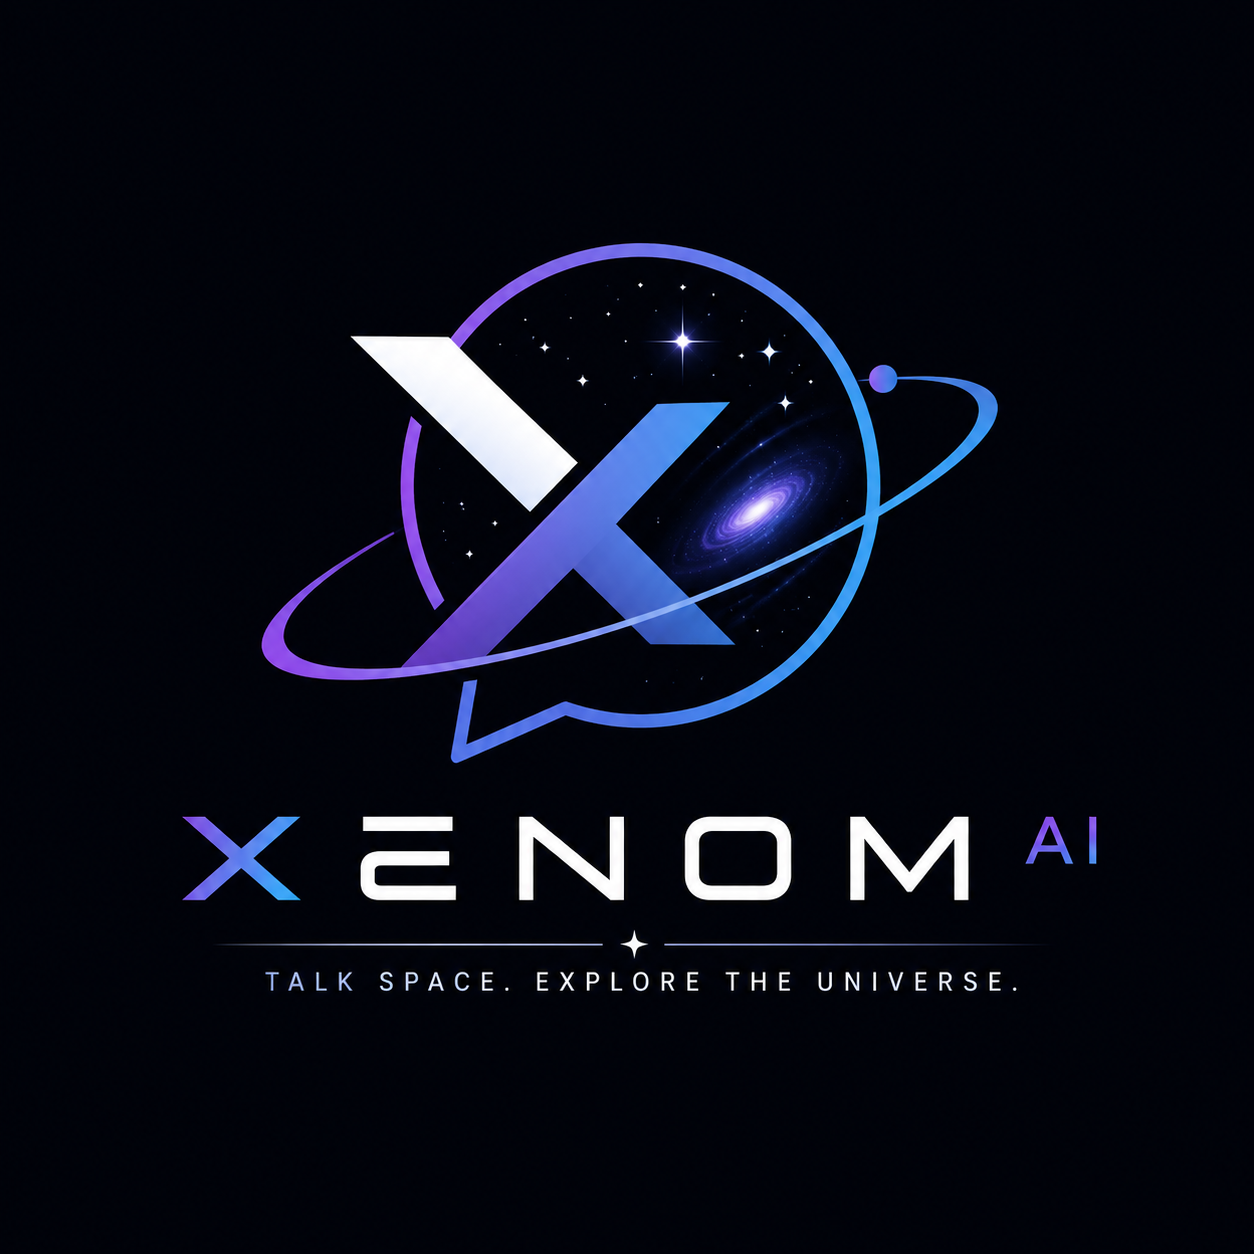
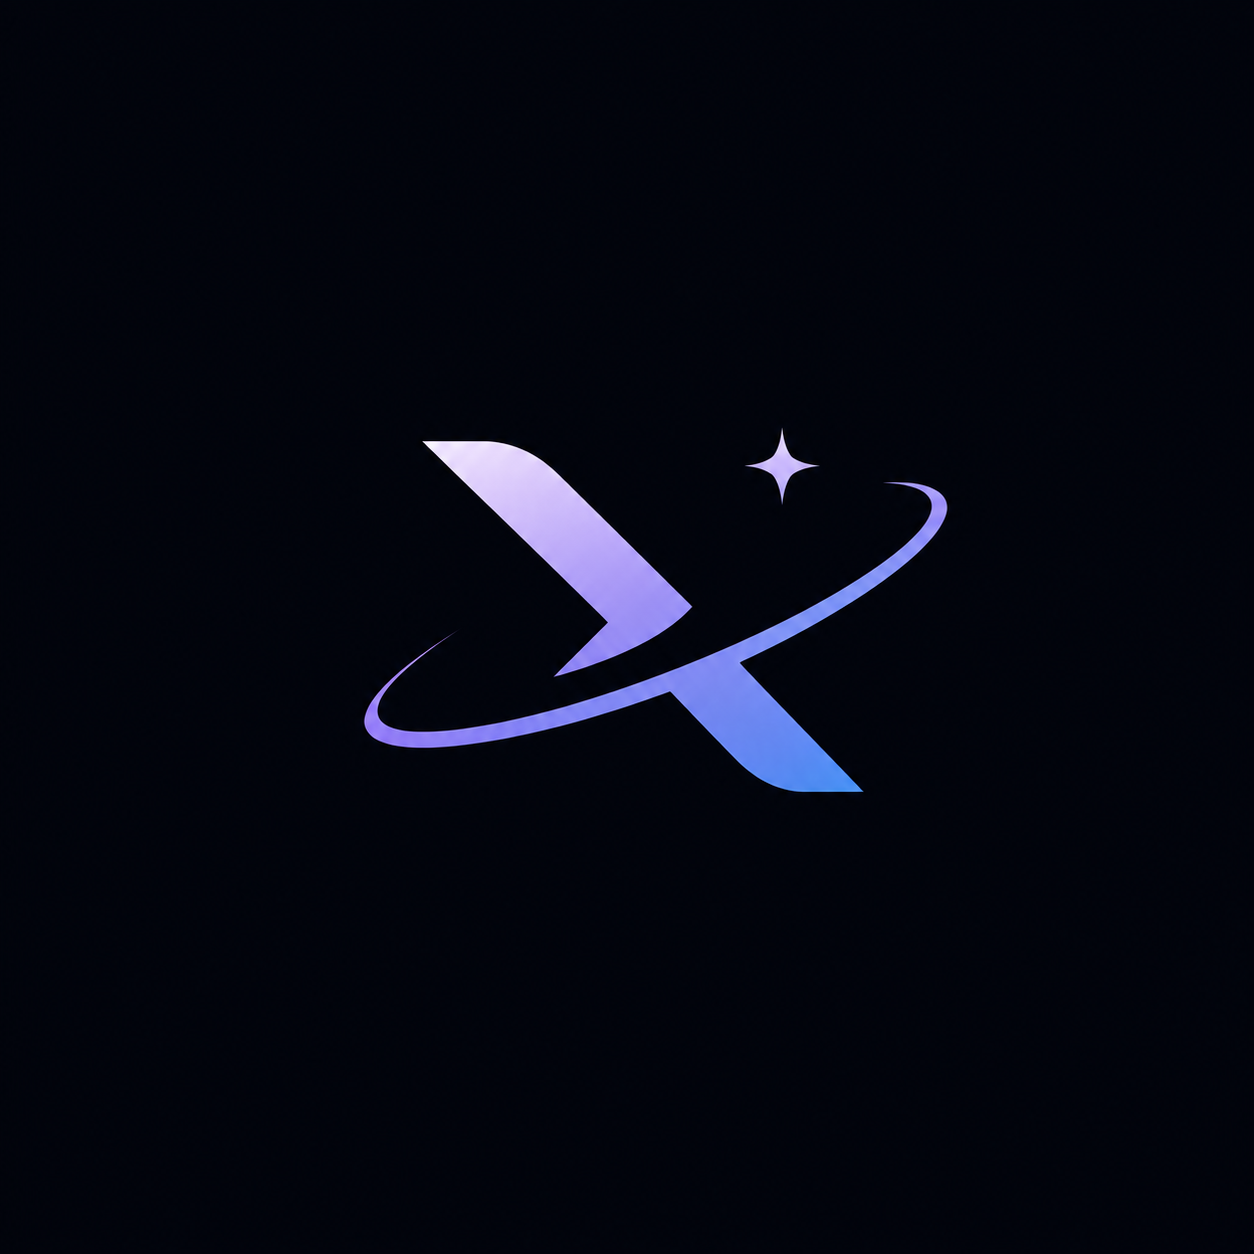
update constants and screenshots

diff --git a/src/constants/index.ts b/src/constants/index.ts
@@ -192,7 +192,7 @@ export const projects: ProjectType[] = [
     screenshot: SS_x,
     image: x,
     githubLink: "https://github.com/Abdoubel26/twitter-clone",
-    previewLink: null
+    previewLink: "https://twitter-clone-1-k2hq.onrender.com"
   },
   {
     id: 5,
@@ -216,25 +216,8 @@ export const projects: ProjectType[] = [
     githubLink: "https://github.com/Abdoubel26/financial-manager",
     previewLink: "https://finances-trackr.vercel.app/"
   },
-  {
+   {
     id: 6,
-    title: "Mindful-Scroll",
-    description: "A productivity-focused Chrome extension that monitors social media usage and enforces customizable daily time limits.",
-    longDescription: "Mindful Scroll is a productivity-focused Chrome extension that helps users develop healthier digital habits by monitoring time spent on distracting websites. The extension allows users to define daily limits and automatically restrict access once those limits are reached, encouraging more intentional internet usage and improved focus.",
-    techStack: [
-      "JavaScript"
-    ],
-    features: [
-      "Timer",
-      "Website Blocking"
-    ],
-    screenshot: null,
-    image: MS,
-    githubLink: "https://github.com/Abdoubel26/mindful-scroll",
-    previewLink: null
-  },
-  {
-    id: 7,
     title: "Xenom AI",
     description: "An AI-powered chatbot for astronomy and space exploration, delivering fast and insightful answers through the Groq API.",
     longDescription: "Xenom AI is a specialized conversational assistant designed for astronomy, astrophysics, and space exploration enthusiasts. Powered by the Groq API, it provides fast, accurate, and engaging responses to questions about planets, stars, galaxies, black holes, and space missions. The project combines modern UI design with intelligent, real-time interaction to make complex cosmic topics more accessible and enjoyable for curious users.",
@@ -255,10 +238,27 @@ export const projects: ProjectType[] = [
     previewLink: "https://xenom-ai.vercel.app/"
   },
   {
+    id: 7,
+    title: "Mindful-Scroll",
+    description: "A productivity-focused Chrome extension that monitors social media usage and enforces customizable daily time limits.",
+    longDescription: "Mindful Scroll is a productivity-focused Chrome extension that helps users develop healthier digital habits by monitoring time spent on distracting websites. The extension allows users to define daily limits and automatically restrict access once those limits are reached, encouraging more intentional internet usage and improved focus.",
+    techStack: [
+      "JavaScript"
+    ],
+    features: [
+      "Timer",
+      "Website Blocking"
+    ],
+    screenshot: null,
+    image: MS,
+    githubLink: "https://github.com/Abdoubel26/mindful-scroll",
+    previewLink: null
+  },
+  {
     id: 8,
     title: "QuickChat",
-    description: "A high-performance, real-time chat application built with secure user authentication and persistent WebSocket connections.",
-    longDescription: "QuickChat is a real-time messaging application focused on speed, reliability, and user experience. The platform enables authenticated users to communicate instantly through persistent WebSocket connections while maintaining secure account management. The project demonstrates the implementation of real-time communication systems and scalable chat architecture.",
+    description: "A first full-stack chat app that taught me the foundations of real-time web development.",
+    longDescription: "QuickChat is a real-time messaging application focused on speed, reliability, and user experience. The platform enables authenticated users to communicate instantly through persistent WebSocket connections while maintaining secure account management. The project demonstrates the implementation of real-time communication systems and scalable chat architecture. This was my very first MERN stack application. While the UI is simple, building this taught me the fundamentals of state management, Express routing, and password hashing. If I were to rebuild this today, I would use Tailwind CSS component files, implement React Query for server state, and handle WebSockets via Redis for scalability.",
     techStack: [
       "MongoDB",
       "ExpressJS",